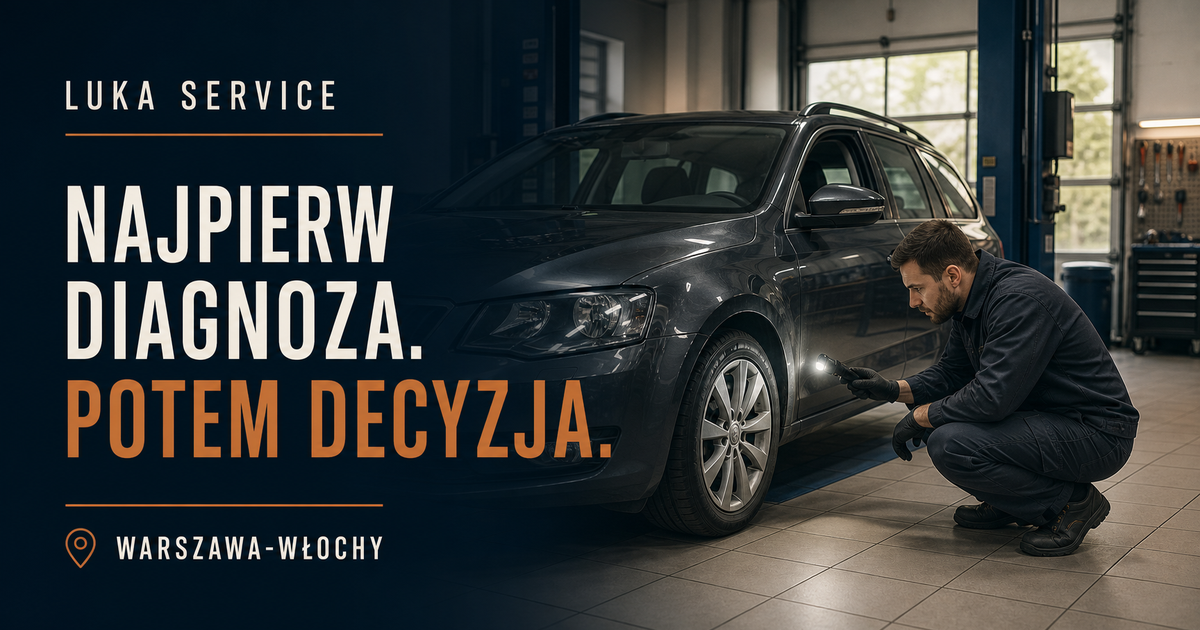
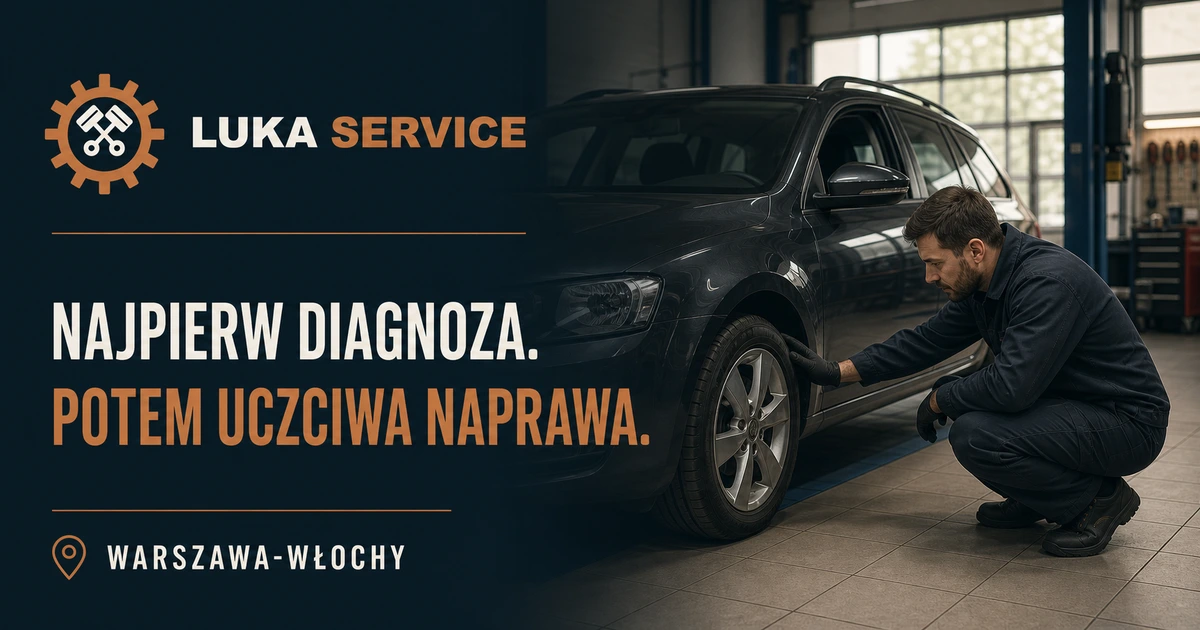
Refine homepage visual direction and branding

diff --git a/app/globals.css b/app/globals.css
@@ -17,7 +17,7 @@
 }
 
 * { box-sizing: border-box; }
-html { scroll-behavior: smooth; scroll-padding-top: 92px; }
+html { scroll-behavior: smooth; scroll-padding-top: 82px; }
 body {
   margin: 0;
   background: var(--paper);
@@ -46,16 +46,9 @@ img { display: block; max-width: 100%; }
 }
 .eyebrow--copper { color: var(--copper); }
 
-.brand { display: inline-flex; align-items: center; gap: 13px; flex: 0 0 auto; }
-.brand__mark { position: relative; width: 44px; height: 44px; border: 1.5px solid var(--ink); border-radius: 13px; }
-.brand__mark::before { content: ""; position: absolute; left: 9px; top: 9px; width: 10px; height: 10px; border: 2px solid var(--copper); border-radius: 50%; }
-.brand__mark i { position: absolute; right: 8px; bottom: 9px; width: 17px; height: 2px; background: var(--ink); transform: rotate(-35deg); transform-origin: right; }
-.brand__name { font: 700 19px/1 var(--display); letter-spacing: .06em; }
-.brand__name small { display: block; margin-top: 7px; color: var(--slate); font: 700 8px/1 var(--body); letter-spacing: .23em; }
-.brand--light { color: var(--white); }
-.brand--light .brand__mark { border-color: rgba(255,255,255,.82); }
-.brand--light .brand__mark i { background: var(--white); }
-.brand--light .brand__name small { color: rgba(255,255,255,.54); }
+.brand { display: inline-flex; align-items: center; flex: 0 0 auto; }
+.brand__logo { width: 210px; height: auto; }
+.brand--light .brand__logo { width: min(290px, 72vw); }
 
 .site-header {
   position: sticky;
@@ -65,7 +58,7 @@ img { display: block; max-width: 100%; }
   grid-template-columns: auto 1fr auto auto;
   align-items: center;
   gap: 28px;
-  height: 92px;
+  height: 82px;
   padding: 0 clamp(22px, 4.8vw, 82px);
   background: rgba(244,242,237,.94);
   border-bottom: 1px solid rgba(13,27,35,.08);
@@ -99,25 +92,25 @@ img { display: block; max-width: 100%; }
   --pointer-x: 0px;
   --pointer-y: 0px;
   position: relative;
-  min-height: calc(100svh - 92px);
-  height: 760px;
-  max-height: 900px;
+  min-height: 630px;
+  height: 72svh;
+  max-height: 720px;
   overflow: hidden;
   color: var(--white);
   background: var(--ink);
   isolation: isolate;
 }
-.hero__image { position: absolute; z-index: -3; inset: -18px; width: calc(100% + 36px); height: calc(100% + 36px); object-fit: cover; object-position: 61% center; transform: translate(var(--pointer-x), var(--pointer-y)) scale(1.025); transition: transform .6s cubic-bezier(.2,.7,.2,1); }
-.hero__shade { position: absolute; z-index: -2; inset: 0; background: linear-gradient(90deg, rgba(9,23,30,.97) 0%, rgba(9,23,30,.87) 35%, rgba(9,23,30,.33) 67%, rgba(9,23,30,.18) 100%); }
-.hero::after { content: ""; position: absolute; z-index: -1; inset: 0; background: linear-gradient(180deg, transparent 68%, rgba(8,20,27,.43)); pointer-events: none; }
-.hero__content { width: min(680px, 52vw); padding: clamp(120px, 15vh, 170px) 0 80px clamp(28px, 6.2vw, 108px); }
-.hero h1 { margin: 0; max-width: 680px; font: 520 clamp(52px, 5.25vw, 86px)/.95 var(--display); letter-spacing: -.045em; }
+.hero__image { position: absolute; z-index: -3; inset: -18px; width: calc(100% + 36px); height: calc(100% + 36px); object-fit: cover; object-position: 63% center; transform: translate(var(--pointer-x), var(--pointer-y)) scale(1.025); transition: transform .75s cubic-bezier(.2,.7,.2,1); }
+.hero__shade { position: absolute; z-index: -2; inset: 0; background: linear-gradient(90deg, rgba(9,23,30,.9) 0%, rgba(9,23,30,.75) 34%, rgba(9,23,30,.25) 66%, rgba(9,23,30,.09) 100%); }
+.hero::after { content: ""; position: absolute; z-index: -1; inset: 0; background: linear-gradient(180deg, rgba(8,20,27,.06), transparent 58%, rgba(8,20,27,.32)); pointer-events: none; }
+.hero__content { width: min(620px, 48vw); padding: clamp(82px, 10vh, 112px) 0 76px clamp(28px, 5.6vw, 96px); }
+.hero h1 { margin: 0; max-width: 620px; font: 520 clamp(48px, 4.15vw, 70px)/1 var(--display); letter-spacing: -.038em; }
 .hero h1 em { color: var(--copper-light); font-style: normal; }
-.hero__lead { max-width: 620px; margin: 30px 0 0; color: rgba(255,255,255,.76); font-size: clamp(16px, 1.35vw, 20px); line-height: 1.65; }
-.hero__actions { display: flex; gap: 12px; margin-top: 34px; }
-.hero__promise { display: flex; align-items: center; gap: 10px; margin: 22px 0 0; color: rgba(255,255,255,.65); font-size: 13px; }
+.hero__lead { max-width: 540px; margin: 24px 0 0; color: rgba(255,255,255,.82); font-size: clamp(15px, 1.05vw, 18px); line-height: 1.6; }
+.hero__actions { display: flex; gap: 12px; margin-top: 28px; }
+.hero__promise { display: flex; align-items: center; gap: 10px; margin: 18px 0 0; color: rgba(255,255,255,.68); font-size: 12px; }
 .hero__promise i { width: 8px; height: 8px; border-radius: 50%; background: var(--green); box-shadow: 0 0 0 6px rgba(119,154,131,.15); }
-.hero-sequence { opacity: 0; transform: translateY(24px); animation: hero-in .8s cubic-bezier(.2,.7,.2,1) forwards; }
+.hero-sequence { opacity: 0; transform: translateY(18px); animation: hero-in .72s cubic-bezier(.2,.7,.2,1) forwards; }
 .hero-sequence--1 { animation-delay: .1s; }
 .hero-sequence--2 { animation-delay: .22s; }
 .hero-sequence--3 { animation-delay: .36s; }
@@ -127,15 +120,15 @@ img { display: block; max-width: 100%; }
 
 .service-rail { position: absolute; right: clamp(36px, 4.4vw, 76px); top: 74px; bottom: 78px; width: 2px; background: rgba(255,255,255,.18); }
 .service-rail span { position: absolute; right: 18px; top: 0; color: rgba(255,255,255,.65); font: 700 10px/1 var(--body); letter-spacing: .18em; white-space: nowrap; }
-.service-rail i { position: absolute; left: -5px; top: 42%; width: 12px; height: 12px; border-radius: 50%; background: var(--copper); box-shadow: 0 0 0 0 rgba(201,130,77,.35); animation: rail-pulse 2.2s infinite; }
-.service-rail b { position: absolute; left: 0; top: 0; width: 2px; height: 34%; background: linear-gradient(var(--copper), transparent); animation: rail-scan 4.5s ease-in-out infinite; }
+.service-rail i { position: absolute; left: -5px; top: 42%; width: 12px; height: 12px; border-radius: 50%; background: var(--copper); box-shadow: 0 0 0 0 rgba(201,130,77,.28); animation: rail-pulse 3.2s infinite; }
+.service-rail b { position: absolute; left: 0; top: 0; width: 2px; height: 34%; background: linear-gradient(var(--copper), transparent); animation: rail-scan 6s ease-in-out infinite; }
 @keyframes rail-pulse { 50% { box-shadow: 0 0 0 12px rgba(201,130,77,0); } }
 @keyframes rail-scan { 0%,100% { transform: translateY(0); opacity: .2; } 50% { transform: translateY(190%); opacity: 1; } }
 .scroll-cue { position: absolute; right: 94px; bottom: 34px; display: flex; align-items: center; gap: 12px; color: rgba(255,255,255,.6); font: 700 9px/1 var(--body); letter-spacing: .17em; text-transform: uppercase; }
 .scroll-cue i { position: relative; width: 46px; height: 1px; background: rgba(255,255,255,.36); }
 .scroll-cue i::after { content: ""; position: absolute; right: 0; top: -3px; width: 7px; height: 7px; border-right: 1px solid currentColor; border-bottom: 1px solid currentColor; transform: rotate(-45deg); }
 
-.trust-strip { display: grid; grid-template-columns: repeat(4, 1fr); padding: 34px clamp(28px, 5vw, 88px); background: var(--white); border-bottom: 1px solid var(--line); }
+.trust-strip { position: relative; z-index: 3; display: grid; grid-template-columns: repeat(4, 1fr); width: calc(100% - clamp(40px, 8vw, 144px)); margin: -36px auto 0; padding: 28px clamp(24px, 3.6vw, 58px); background: rgba(255,254,250,.97); border: 1px solid rgba(13,27,35,.09); border-radius: 12px; box-shadow: 0 24px 54px rgba(13,27,35,.13); backdrop-filter: blur(16px); }
 .trust-strip > div { display: grid; grid-template-columns: 34px 1fr; grid-template-rows: auto auto; padding: 0 clamp(14px, 2.2vw, 36px); border-left: 1px solid var(--line); }
 .trust-strip > div:first-child { border-left: 0; padding-left: 0; }
 .trust-strip__icon { grid-row: 1 / 3; align-self: center; color: var(--copper); font: 600 22px/1 var(--display); }
@@ -258,9 +251,7 @@ img { display: block; max-width: 100%; }
   html { scroll-padding-top: 74px; }
   body { padding-bottom: 64px; }
   .site-header { height: 74px; grid-template-columns: auto 1fr auto; padding: 0 20px; }
-  .site-header .brand__mark { width: 36px; height: 36px; border-radius: 10px; }
-  .site-header .brand__name { font-size: 15px; }
-  .site-header .brand__name small { font-size: 6px; }
+  .site-header .brand__logo { width: 172px; }
   .header-cta { display: none; }
   .menu-toggle { position: relative; z-index: 102; justify-self: end; display: grid; width: 40px; height: 40px; place-items: center; padding: 9px; }
   .menu-toggle span { display: block; width: 22px; height: 2px; background: var(--ink); transition: transform .25s ease; }
@@ -270,15 +261,15 @@ img { display: block; max-width: 100%; }
   .main-nav { position: fixed; z-index: 101; inset: 74px 0 auto; display: grid; gap: 0; padding: 20px; background: var(--paper); border-bottom: 1px solid var(--line); box-shadow: 0 20px 40px rgba(13,27,35,.12); transform: translateY(-130%); transition: transform .35s cubic-bezier(.2,.7,.2,1); }
   .main-nav.is-open { transform: translateY(0); }
   .main-nav a { padding: 15px 4px; border-bottom: 1px solid var(--line); }
-  .hero { min-height: 720px; height: calc(100svh - 74px); max-height: 820px; }
+  .hero { min-height: 650px; height: calc(100svh - 74px); max-height: 760px; }
   .hero__image { object-position: 66% center; }
-  .hero__shade { background: linear-gradient(90deg, rgba(9,23,30,.94), rgba(9,23,30,.65)); }
-  .hero__content { width: 88%; padding: 108px 0 72px 24px; }
-  .hero h1 { font-size: clamp(46px, 12vw, 68px); }
-  .hero__lead { font-size: 16px; }
+  .hero__shade { background: linear-gradient(90deg, rgba(9,23,30,.91), rgba(9,23,30,.52)); }
+  .hero__content { width: 86%; padding: 88px 0 64px 24px; }
+  .hero h1 { font-size: clamp(43px, 10.5vw, 60px); }
+  .hero__lead { font-size: 15px; }
   .service-rail { right: 24px; top: 54px; bottom: 100px; }
   .scroll-cue { display: none; }
-  .trust-strip { grid-template-columns: 1fr 1fr; gap: 0; padding: 26px 20px; }
+  .trust-strip { grid-template-columns: 1fr 1fr; gap: 0; width: calc(100% - 32px); margin-top: -24px; padding: 20px 16px; }
   .trust-strip > div { padding: 18px 10px; border-top: 1px solid var(--line); }
   .trust-strip > div:nth-child(odd) { border-left: 0; }
   .trust-strip > div:nth-child(-n+2) { border-top: 0; }
@@ -299,7 +290,7 @@ img { display: block; max-width: 100%; }
 }
 
 @media (max-width: 560px) {
-  .hero__shade { background: linear-gradient(90deg, rgba(9,23,30,.96), rgba(9,23,30,.68)), linear-gradient(0deg, rgba(9,23,30,.25), transparent); }
+  .hero__shade { background: linear-gradient(90deg, rgba(9,23,30,.94), rgba(9,23,30,.58)), linear-gradient(0deg, rgba(9,23,30,.18), transparent); }
   .hero__content { width: calc(100% - 24px); padding-left: 20px; padding-right: 32px; }
   .hero__actions { flex-direction: column; align-items: stretch; max-width: 300px; }
   .service-rail { opacity: .55; }

diff --git a/app/page.tsx b/app/page.tsx
@@ -178,8 +178,7 @@ export default function Home() {
       <a className="skip-link" href="#main">Przejdź do treści</a>
       <header className="site-header">
         <a className="brand" href="#top" aria-label="Luka Service - strona główna">
-          <span className="brand__mark" aria-hidden="true"><i /></span>
-          <span className="brand__name">LUKA SERVICE<small>WARSZAWA-WŁOCHY</small></span>
+          <img className="brand__logo" src="/brand/luka-service-logo.png" alt="" width="900" height="270" />
         </a>
         <button
           className="menu-toggle"
@@ -224,18 +223,18 @@ export default function Home() {
           <div className="hero__shade" />
           <div className="hero__content">
             <p className="eyebrow hero-sequence hero-sequence--1">Mechanik samochodowy • Warszawa-Włochy</p>
-            <h1 className="hero-sequence hero-sequence--2">Najpierw diagnoza.<br /><em>Potem decyzja.</em></h1>
+            <h1 className="hero-sequence hero-sequence--2">Najpierw diagnoza.<br /><em>Potem uczciwa naprawa.</em></h1>
             <p className="hero__lead hero-sequence hero-sequence--3">
-              Pełny zakres usług z pierwotnej oferty Luka Service. Sprawdzamy samochód, przedstawiamy koszt i zaczynamy pracę dopiero po Twojej akceptacji.
+              Sprawdzamy samochód, wyjaśniamy przyczynę i podajemy koszt. Naprawę zaczynamy dopiero po Twojej akceptacji.
             </p>
             <div className="hero__actions hero-sequence hero-sequence--4">
-              <a className="button button--copper" href="tel:+48690266302">Zadzwoń teraz</a>
-              <a className="button button--glass" href="#uslugi">Zobacz usługi</a>
+              <a className="button button--copper" href="tel:+48690266302">Zadzwoń i umów termin</a>
+              <a className="button button--glass" href="#uslugi">Sprawdź usługi</a>
             </div>
             <p className="hero__promise hero-sequence hero-sequence--5"><i /> Bez dodatkowych prac bez zgody klienta</p>
           </div>
           <div className="service-rail" aria-hidden="true">
-            <span>SERWIS / 01</span><i /><b />
+            <span>PROCES / DIAGNOZA</span><i /><b />
           </div>
           <a className="scroll-cue" href="#uslugi" aria-label="Przewiń do usług"><span>Przewiń</span><i /></a>
         </section>
@@ -343,8 +342,7 @@ export default function Home() {
         <section id="kontakt" className="contact-section">
           <div className="contact-copy" data-reveal>
             <a className="brand brand--light" href="#top" aria-label="Luka Service - wróć na górę">
-              <span className="brand__mark" aria-hidden="true"><i /></span>
-              <span className="brand__name">LUKA SERVICE<small>WARSZAWA-WŁOCHY</small></span>
+              <img className="brand__logo" src="/brand/luka-service-logo-reverse.png" alt="" width="900" height="270" loading="lazy" />
             </a>
             <p className="eyebrow eyebrow--copper">Kontakt i lokalizacja</p>
             <h2>Opisz objawy.<br />My zaproponujemy kolejny krok.</h2>

diff --git a/app/layout.tsx b/app/layout.tsx
@@ -8,18 +8,18 @@ export const metadata: Metadata = {
   alternates: { canonical: "/" },
   icons: { icon: "/favicon.png", shortcut: "/favicon.png" },
   openGraph: {
-    title: "Luka Service - najpierw diagnoza, potem decyzja",
+    title: "Luka Service - najpierw diagnoza, potem uczciwa naprawa",
     description: "Profesjonalny warsztat samochodowy w Warszawie-Włochach. Jasna wycena przed naprawą.",
     type: "website",
     locale: "pl_PL",
     url: "/",
     siteName: "Luka Service",
-    images: [{ url: "/og.png", width: 1200, height: 630, alt: "Luka Service - najpierw diagnoza, potem decyzja" }],
+    images: [{ url: "/og.png", width: 1200, height: 630, alt: "Luka Service - najpierw diagnoza, potem uczciwa naprawa" }],
   },
   twitter: {
     card: "summary_large_image",
     title: "Luka Service - Warszawa-Włochy",
-    description: "Najpierw diagnoza i jasna wycena. Potem decyzja.",
+    description: "Najpierw diagnoza i jasna wycena. Potem uczciwa naprawa.",
     images: ["/og.png"],
   },
 };
